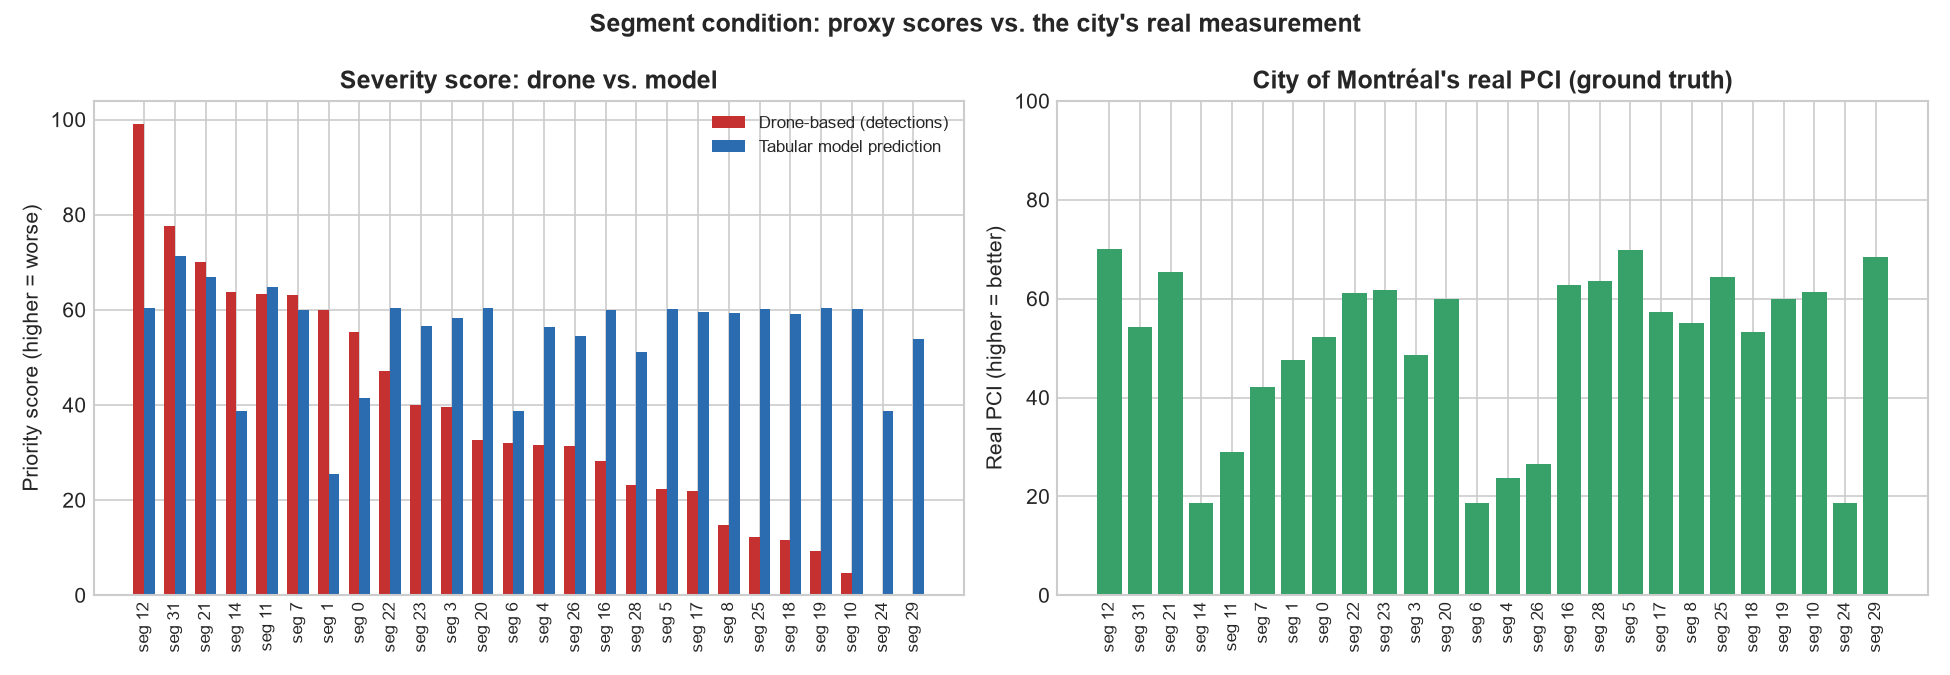
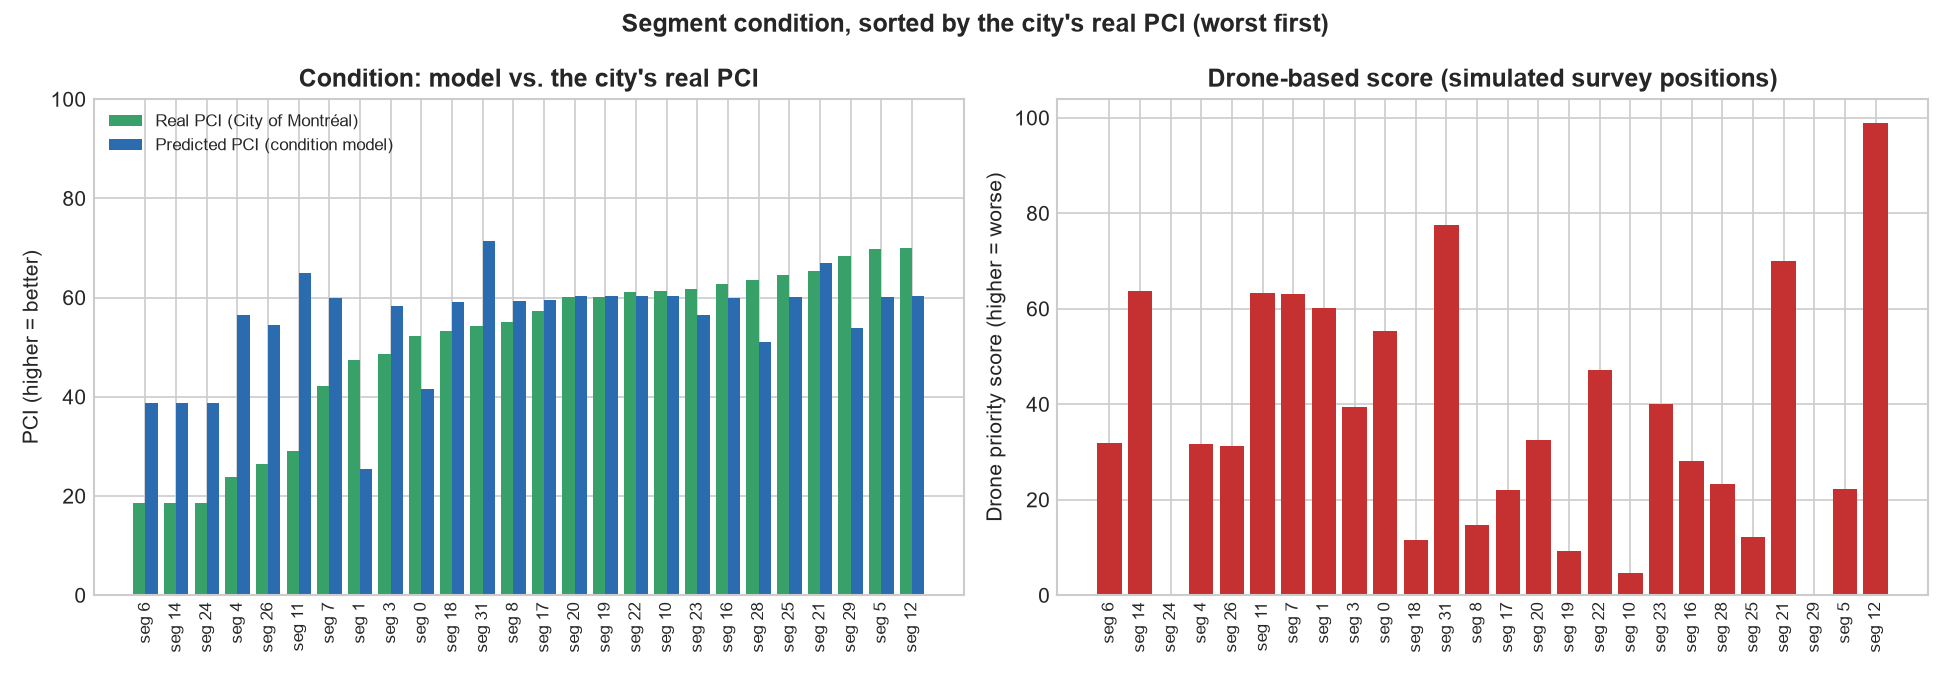
Fix the condition model's scale in the README and refresh stale claims
predicted_score is a predicted PCI (0-100, higher = better), but the README
and its comparison figure treated it as a severity score on the drone
score's scale. The figure now puts predicted and real PCI in one panel and
the drone score in its own, sorted by real PCI, and the text reports rank
correlations (model 0.48, drone -0.13, expected with simulated positions).

Also: Limitations still quoted the old R2 0.27, summaries omitted pavement
age, "Dominant issue" was actually the most severe class, docstrings said
8 demo segments instead of 32. Links the README to the new notebook.

Changed region(s): [[0.0, 0.0933, 0.9846, 0.9644], [0.3077, 0.0, 0.7077, 0.0622]]

diff --git a/src/reporting/make_figures.py b/src/reporting/make_figures.py
@@ -46,36 +46,41 @@ def segment_condition_predicted_vs_actual():
     """Three-way comparison on the demo segments that matched a real City of
     Montreal PCI segment: our drone-based priority score, the tabular
     model's prediction, and the city's real, measured PCI for that same
-    stretch of road. The first two share a scale (severity sum, higher =
-    worse); real PCI is a different, bounded 0-100 condition scale (higher =
-    better) -- so it gets its own panel. Sorted by drone score (descending)
-    so the two panels stay readable with more than a handful of segments.
+    stretch of road.
+
+    Two different scales, so two panels: the model predicts a PCI (0-100,
+    higher = better), the same scale as the city's real PCI, so those two
+    share the left panel. The drone score is a severity sum (higher = worse)
+    and gets its own panel. Both panels use the same segment order, sorted by
+    real PCI (worst first), so a reader can check whether the drone flags
+    the streets the city rates worst.
     """
     df = pd.read_csv("outputs/segment_model/surveyed_vs_predicted.csv")
-    df = df.sort_values("drone_priority_score", ascending=False).reset_index(drop=True)
+    df = df.sort_values("real_indice_pci").reset_index(drop=True)
     x = range(len(df))
-    width = 0.35
+    labels = [f"seg {i}" for i in df["seg_id"]]
+    width = 0.4
 
-    fig, (ax_severity, ax_pci) = plt.subplots(1, 2, figsize=(13, 4.5))
+    fig, (ax_pci, ax_drone) = plt.subplots(1, 2, figsize=(13, 4.5))
 
-    ax_severity.bar([i - width / 2 for i in x], df["drone_priority_score"], width,
-                     label="Drone-based (detections)", color="#c53030")
-    ax_severity.bar([i + width / 2 for i in x], df["predicted_score"], width,
-                     label="Tabular model prediction", color="#2b6cb0")
-    ax_severity.set_xticks(list(x))
-    ax_severity.set_xticklabels([f"seg {i}" for i in df["seg_id"]], rotation=90, fontsize=8)
-    ax_severity.set_ylabel("Priority score (higher = worse)")
-    ax_severity.set_title("Severity score: drone vs. model")
-    ax_severity.legend(fontsize=8)
-
-    ax_pci.bar(list(x), df["real_indice_pci"], color="#38a169")
+    ax_pci.bar([i - width / 2 for i in x], df["real_indice_pci"], width,
+               label="Real PCI (City of Montréal)", color="#38a169")
+    ax_pci.bar([i + width / 2 for i in x], df["predicted_score"], width,
+               label="Predicted PCI (condition model)", color="#2b6cb0")
     ax_pci.set_xticks(list(x))
-    ax_pci.set_xticklabels([f"seg {i}" for i in df["seg_id"]], rotation=90, fontsize=8)
-    ax_pci.set_ylabel("Real PCI (higher = better)")
+    ax_pci.set_xticklabels(labels, rotation=90, fontsize=8)
+    ax_pci.set_ylabel("PCI (higher = better)")
     ax_pci.set_ylim(0, 100)
-    ax_pci.set_title("City of Montréal's real PCI (ground truth)")
+    ax_pci.set_title("Condition: model vs. the city's real PCI")
+    ax_pci.legend(fontsize=8, loc="upper left")
 
-    fig.suptitle("Segment condition: proxy scores vs. the city's real measurement", fontweight="bold")
+    ax_drone.bar(list(x), df["drone_priority_score"], color="#c53030")
+    ax_drone.set_xticks(list(x))
+    ax_drone.set_xticklabels(labels, rotation=90, fontsize=8)
+    ax_drone.set_ylabel("Drone priority score (higher = worse)")
+    ax_drone.set_title("Drone-based score (simulated survey positions)")
+
+    fig.suptitle("Segment condition, sorted by the city's real PCI (worst first)", fontweight="bold")
     fig.tight_layout()
     fig.savefig(FIGURES_DIR / "segment_condition_predicted_vs_actual.png")
     plt.close(fig)

diff --git a/src/model/segment_model.py b/src/model/segment_model.py
@@ -15,10 +15,11 @@ Steps:
      cross-validation, then tune the winner with GridSearchCV.
   4. Evaluate the tuned model on a held-out test split (MAE / RMSE / R2) and
      plot feature importance.
-  5. Spatially match our 8 drone-surveyed demo segments to the real Montreal
+  5. Spatially match our 32 drone-surveyed demo segments to the real Montreal
      segments that overlap them (same street, real geometry), so they inherit
      real attributes -- then apply the trained model and compare three
-     values: our drone-based priority_score, the model's predicted_score,
+     values: our drone-based priority_score (severity sum, higher = worse),
+     the model's predicted_score (a predicted PCI, 0-100, higher = better),
      and the city's own real indice_pci for that stretch of road.
 """
 from __future__ import annotations
@@ -61,7 +62,7 @@ def build_preprocessor() -> ColumnTransformer:
 def real_features_for_surveyed_segments(
     segments_path: str, montreal_pci_path: str, metric_crs: str, match_distance_m: float
 ) -> gpd.GeoDataFrame:
-    """Match each of our 8 demo segments to the real Montreal segments whose
+    """Match each of our 32 demo segments to the real Montreal segments whose
     geometry falls within `match_distance_m` of it (there are several real,
     short block-to-block segments per demo segment), and aggregate their real
     attributes -- length-weighted for PCI/IRI, most common borough. This
@@ -164,7 +165,7 @@ def main(config_path: str):
     plt.savefig(out_dir / "feature_importance.png")
     print(f"Feature importance plot -> {out_dir / 'feature_importance.png'}")
 
-    # Match our 8 demo segments to real Montreal segments, apply the model,
+    # Match our 32 demo segments to real Montreal segments, apply the model,
     # and compare against both our drone-based score and the city's real PCI.
     scored_path = Path("outputs") / "segments_scored.gpkg"
     if scored_path.exists():

diff --git a/README.md b/README.md
@@ -19,10 +19,9 @@ maintenance first.
 > that job faster: an AI trained to recognize cracks and potholes automatically spots the damage
 > in the photos, places it on a real map, groups nearby damage into "problem zones," then
 > calculates a **priority score** to know which stretch of road to fix first. For sections the
-> drone hasn't surveyed yet, a second model uses simple information (street length, borough,
-> road roughness) to still estimate their likely condition. The result is a map that shows,
-> street by street, where
-> to step in first — exactly the kind of tool a city would use to plan road maintenance on a
+> drone hasn't surveyed yet, a second model uses simple information the city already has (street
+> length, borough, road roughness, pavement age) to still estimate their likely condition. The
+> result is a map that shows, street by street, where to step in first — exactly the kind of tool a city would use to plan road maintenance on a
 > limited budget.
 
 ---
@@ -47,7 +46,7 @@ Given ~2,440 UAV images of pavement, a YOLO detector finds and classifies six di
 DBSCAN, and aggregated into a per-segment maintenance-priority score. A separate scikit-learn
 model, trained on ~16,000 real segments from the City of Montréal's own pavement condition
 survey, then estimates a segment's real PCI from attributes available city-wide (length,
-borough, roughness) alone — useful for segments a drone hasn't surveyed yet. Everything ends up
+borough, roughness, pavement age and material) alone — useful for segments a drone hasn't surveyed yet. Everything ends up
 in a GeoPackage that opens directly in QGIS with graduated priority symbology.
 
 No real GPS-tagged flight was available for this project, so the **survey GPS coordinates are an
@@ -57,6 +56,11 @@ Everything downstream of that — the segment boundaries themselves, the detecto
 model, and its training and ground-truth data — is real. See
 [Limitations](#limitations--honest-caveats) for exactly where
 the line is drawn.
+
+> **Quickest way in:** the [walkthrough notebook](notebooks/demo_pipeline.ipynb) runs through
+> every step (detection, map, hotspots, priority, condition model, SQL) with its outputs saved,
+> so it reads directly on GitHub. The trained weights and pipeline outputs are committed, so it
+> also re-runs locally in under a minute on a CPU, with no dataset download.
 
 ---
 
@@ -84,7 +88,7 @@ flowchart LR
     E --> G[Spatial join to<br/>nearest segment]
     G --> H[Aggregate priority<br/>score per segment]
     H --> I[scikit-learn<br/>condition model]
-    I --> J[Priority score,<br/>surveyed + predicted]
+    I --> J[Priority score +<br/>predicted PCI]
     F --> K[QGIS layer<br/>GeoPackage]
     J --> K
 ```
@@ -102,7 +106,7 @@ matters in practice:
 | **Segment condition model** | scikit-learn | Predict condition from segment attributes | Tabular (classic ML) |
 
 The deep-learning model sees the pixels; the classic model reasons over city-wide attributes
-(segment length, borough, ride roughness) to **estimate condition on segments the drone never
+(segment length, borough, ride roughness, pavement age) to **estimate condition on segments the drone never
 flew over** — the same imputation logic used in real asset-management workflows.
 
 ---
@@ -164,7 +168,7 @@ Built around an open UAV pavement-distress dataset:
 
 | Dataset | Content | Notes |
 |---|---|---|
-| **UAV-PDD2023** | ~2,440 drone images, ~11k instances (6 classes) | Used for detector training/eval |
+| **UAV-PDD2023** | ~2,440 drone images, ~11k instances (6 classes) | Used for detector training/eval. H. Yan & J. Zhang, Hebei University of Technology, [Zenodo](https://zenodo.org/records/8429208), CC-BY 4.0 |
 
 Distress classes: longitudinal crack, transverse crack, oblique crack, alligator crack,
 pothole, repair. Datasets are **not** committed — see [`data/README.md`](data/README.md).
@@ -177,7 +181,7 @@ pothole, repair. Datasets are **not** committed — see [`data/README.md`](data/
 | Detector inference on held-out test images | Real model output |
 | Street network & segment boundaries | **Real** — [`fetch_osm_network.py`](src/geo/fetch_osm_network.py) pulls every real drivable street (32 segments, 15 named streets) in a Montréal neighbourhood near Polytechnique from OpenStreetMap. Each segment is a real OSM way, the same block-to-block granularity the City of Montréal uses for its own PCI survey — not an arbitrary division. |
 | GPS coordinates on the "survey" images | **Synthetic** — UAV-PDD2023 images carry no GPS EXIF (they're research crops, not flight photos). [`generate_synthetic_survey.py`](src/data/generate_synthetic_survey.py) assigns each test image a random point on a random real segment (weighted by segment length) — a fake flight, over real streets. |
-| Road segment *attributes* (length, borough, roughness) | **Real** — [`segment_model.py`](src/model/segment_model.py) spatially matches each of the 32 demo segments to the real City of Montréal segments that overlap it and inherits their measured values. |
+| Road segment *attributes* (length, borough, roughness, pavement age/material) | **Real** — [`segment_model.py`](src/model/segment_model.py) spatially matches each of the 32 demo segments to the real City of Montréal segments that overlap it and inherits their measured values. |
 | Segment condition model's training data | **Real** — [`fetch_montreal_pci_data.py`](src/model/fetch_montreal_pci_data.py) downloads ~16,000 real, measured segments (Pavement Condition Index) from the City of Montréal's open data portal, enriched with real pavement age/material by [`enrich_with_voirie_age.py`](src/model/enrich_with_voirie_age.py) (a second, separately sourced City of Montréal survey, spatially joined — no shared key). No synthetic/formula-based data remains in this project. |
 | Ground truth for the 32 demo segments | **Real** — the City of Montréal's own PCI rating for those exact streets, used as an independent check on both the drone-based score and the model's prediction. |
 
@@ -279,28 +283,41 @@ almost no variation for the model to learn from.
 
 ### Three ways to score the same segments
 
-![Predicted vs. actual priority score](figures/segment_condition_predicted_vs_actual.png)
+![Model-predicted PCI and drone score vs. the city's real PCI](figures/segment_condition_predicted_vs_actual.png)
 
 26 of the 32 demo segments matched a real City of Montréal PCI segment nearby (the other 6 fall
 outside the city's surveyed network — a real coverage gap, not an error). Each of those 26 now
-has three independent numbers: our drone-based `priority_score` (sum of weighted detections —
-higher is worse), the tabular model's `predicted_score` (same scale), and the city's real,
-measured PCI (0–100, higher is *better* — a different, bounded scale, so it gets its own panel).
+has three independent numbers, on two different scales:
 
-They don't fully agree, and the clearest case is **segment 24**: the drone found *zero*
+- the city's real, measured **PCI** (0–100, higher is *better*);
+- the condition model's **predicted PCI** (`predicted_score`, same 0–100 scale, so it shares the
+  left panel with the real PCI);
+- our drone-based **`priority_score`** (confidence-weighted sum of detection severities, higher
+  is *worse*), on its own panel.
+
+How well does each track the real PCI? Spearman rank correlation across the 26 segments:
+**0.48 for the condition model** (mean absolute error 11.9 PCI points) and **−0.13 for the drone
+score**, i.e. no signal. The drone result is expected, not a failure of the detector: the survey
+positions are simulated (each photo is dropped on a random street), so which street a detection
+lands on carries no information about that street. The left panel also shows the condition
+model's main weakness: its predictions are compressed toward the city average (~60), so it
+overestimates the worst streets (PCI < 30), a typical symptom of a model with R² ≈ 0.35.
+
+The clearest single case is **segment 24**: the drone found *zero*
 detections there (nothing to flag), yet its real PCI is 18.6 — "très mauvais," one of the worst
 in the whole neighbourhood. Contrast that with **segment 29**, also zero detections, but a real
 PCI of 68.4 — decent condition. Same drone-based signal (nothing detected), opposite
 ground truth. That's the honest limit of a crack/pothole detector as a condition proxy: it
 scores what's visible in a photo, while the city's PCI also captures rutting, patching, and ride
-roughness that a photo of the surface alone won't show. Reporting this divergence is more useful
-than hiding it — it tells a reader exactly how much to trust drone-based scoring on its own.
+roughness that a photo of the surface alone won't show. With simulated positions, this example
+can't be over-interpreted: it illustrates the check a real deployment would run, rather than
+proving the detector wrong. Reporting it is more useful than hiding it.
 
 ### Top segments by priority
 
 Out of 32 real street segments in the neighbourhood:
 
-| Segment | Priority score | Detections | Dominant issue |
+| Segment | Priority score | Detections | Most severe class found |
 |---|---|---|---|
 | 12 | 99.0 | 85 | alligator_crack |
 | 31 | 77.6 | 73 | pothole |
@@ -331,14 +348,16 @@ QGIS to explore it interactively (pan, zoom, inspect attributes per segment).
   real segment, weighted by length) — no real flight happened. Everything else — the street
   network and segment boundaries, the detector, and the condition model's training and
   ground-truth data — is real; see [Data](#data).
-- **Two different scoring systems, not directly comparable on one axis.** The drone-based
-  `priority_score` and the model's `predicted_score` share a scale; the city's real PCI is a
-  different, bounded 0–100 condition index. As shown above, they don't fully agree (segment 24
-  is the clearest case) — that's a real, reportable finding about where a vision-based proxy and
-  an official index diverge, not a bug to hide.
-- **Modest R² (0.27) on the condition model.** Honest for the feature set used (segment length,
-  borough, roughness) — real PCI also depends on material and maintenance history, which aren't
-  in this data. A higher R² would need richer real features, not a different algorithm.
+- **Two different scales.** The drone-based `priority_score` is a severity sum (higher =
+  worse); the model's `predicted_score` and the city's real PCI are both 0–100 condition indices
+  (higher = better). Because the survey positions are simulated, the drone score can't be
+  validated against the real PCI here (rank correlation −0.13): that needs a real geotagged
+  flight.
+- **Modest R² (0.354) on the condition model.** Adding real pavement age raised it from 0.27,
+  but real PCI also depends on traffic loading and maintenance history, which aren't in open
+  data. Predictions are compressed toward the city average, so the worst streets are
+  overestimated. The most promising next feature is each segment's *past* PCI (the survey has
+  several years), the standard predictor in pavement-management deterioration models.
 - **Small, imbalanced test set** for the detector (e.g. only 4 pothole detections) — per-class
   metrics for rare classes are not statistically reliable yet.
 - **6 of 32 segments have no real PCI match** — they fall outside the City of Montréal's
@@ -376,7 +395,7 @@ keys, loading pipeline outputs into SQLite, and pulling real data from a public 
 ## Installation
 
 ```bash
-git clone https://github.com/<your-username>/pavement-distress-drone.git
+git clone https://github.com/akrambouznad789-cyber/pavement-distress-drone.git
 cd pavement-distress-drone
 python -m venv .venv && source .venv/bin/activate   # Windows: .venv\Scripts\activate
 pip install -r requirements.txt
@@ -389,6 +408,12 @@ any CPU.
 ---
 
 ## Usage
+
+**Quick demo (no download needed):** open [`notebooks/demo_pipeline.ipynb`](notebooks/demo_pipeline.ipynb)
+and run all cells. It uses the committed weights, sample images (`assets/sample_images/`) and
+`outputs/`.
+
+**Full pipeline** (needs the UAV-PDD2023 dataset in `data/`, see [`data/README.md`](data/README.md)):
 
 ```bash
 # 0. Demo data setup -- only needed to reproduce the synthetic demo; skip
@@ -453,11 +478,12 @@ pavement-distress-drone/
 │       └── export_qgis.py                # write GeoPackage for QGIS
 │   └── db/load_to_sqlite.py          # load outputs/ into a queryable SQLite database
 ├── sql/schema.sql                    # the 3-table schema (segments, detections, segment_scores)
-├── notebooks/                        # exploration & demo
+├── notebooks/demo_pipeline.ipynb     # step-by-step walkthrough, outputs saved
+├── assets/sample_images/             # 3 UAV-PDD2023 images for the demo
 ├── figures/                          # committed, reproducible README figures
 ├── data/                             # datasets (git-ignored)
-├── models/                           # trained weights (git-ignored)
-└── outputs/                          # detections, hotspots, scored segments, pavement.db (git-ignored)
+├── models/baseline/                  # trained weights best.pt (5 MB) + training log
+└── outputs/                          # detections, hotspots, scored segments, pavement.db
 ```
 
 ---
@@ -473,10 +499,10 @@ pavement-distress-drone/
 - [x] QGIS layer export (segments + hotspots)
 - [ ] Per-class detector evaluation on a held-out split, with a larger/rebalanced dataset
 - [ ] Orthomosaic support (GeoTIFF affine transform)
-- [ ] Real road-network segments (OSM extract) instead of the synthetic 8-segment demo boundaries
+- [x] Real road-network segments (OSM extract, 32 segments) instead of synthetic demo boundaries
 - [ ] Airflow DAG orchestrating the 7 pipeline steps
 - [x] Detections & segment scores persisted to SQLite (`sql/schema.sql`, `src/db/load_to_sqlite.py`)
-- [ ] Short demo notebook
+- [x] Short demo notebook ([`notebooks/demo_pipeline.ipynb`](notebooks/demo_pipeline.ipynb))
 - [ ] (Stretch) Streamlit demo for drag-and-drop inference
 
 ---
